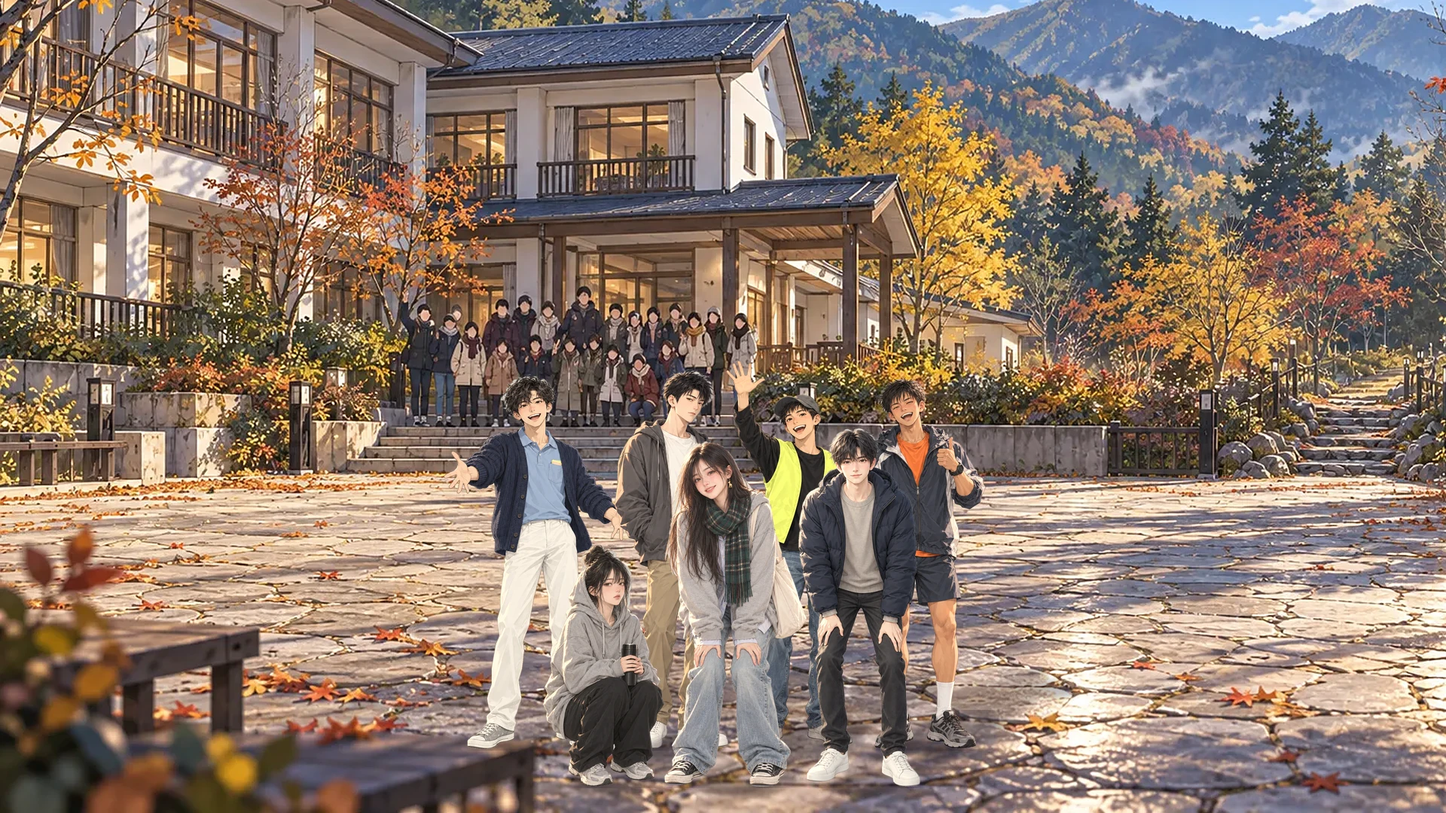
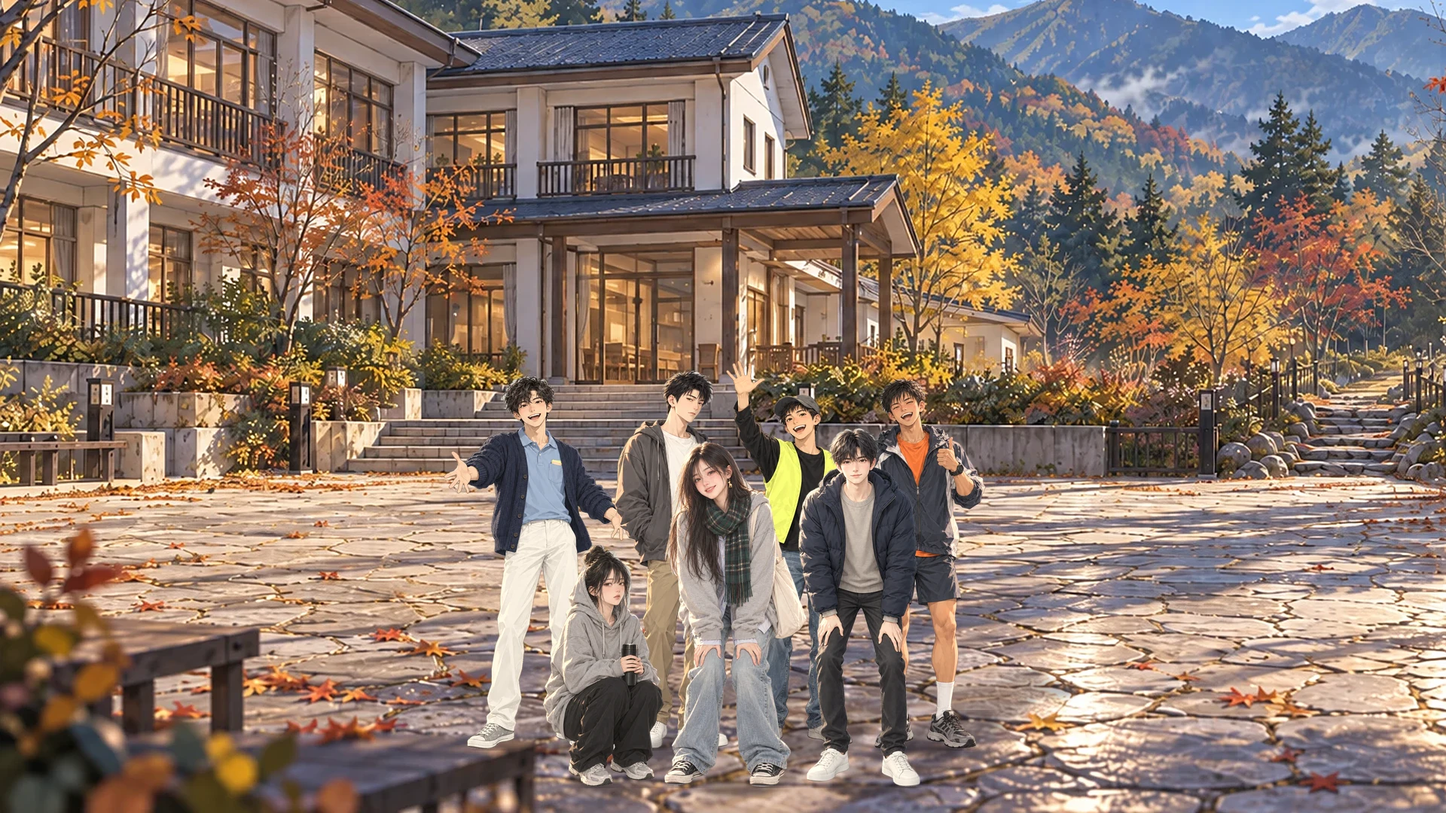
cg_econ_camp 第二版：E4c 改圖拿掉台階上的學生，七個人自己拍（READY_FOR_REVIEW）；公館招牌 S10 早午餐、豆花・甜湯通過；S11 給使用者
Claude-Session: https://claude.ai/code/session_01J1g2TPcPzWrihXSY2WvseV

diff --git a/docs/story_planning/CG_正式製作清單.md b/docs/story_planning/CG_正式製作清單.md
@@ -83,7 +83,7 @@
 | CG-12 | 分一點時間 | 大四上 | 戀愛路線 | 語彤事件 16 的戀愛分支（說出口的那一刻） | 齊（06） | **已生成、BB 檢查通過**（2026-10-14，`cg_approved/`） | — | 語彤事件 16；主要人物劇情 |
 | CG-14 | 中秋的河濱：火一直熄（生活 CG） | 大一上 | **共通** | 去河濱烤肉的玩家（`ev_mid_autumn_bbq`，第 5 週六；放在「你被分到顧火。火一直熄。」） | 齊（`zhe.webp`） | **已生成、BB 檢查通過**（2026-10-14 第十六組，`cg_approved/cg_midautumn_riverside.webp`） | — | **已實作**（開發分支），圖通過就能接 |
 | BCG-46 | 期末考完的合照（法律系 9 人） | 大一上 | 條件式（相簿） | 大一上期末最後一科考完，和其他八人裡至少五位 `FRIEND` 以上，相簿才存（`BB_132` 第 69 組） | 齊（06 的祐廷、以安＋七位配角的參考圖） | **BB 合成完成，READY_FOR_REVIEW**（2026-10-17 00:0x：九人一人一張＋穿堂背景，BB-B 去背、照站位和身高合成，`cg_approved/cg_class_photo_y1.webp` 1920×1080；做法和腳本在 `cg_approved/parts_cg69/`）；等使用者看過再交 LAWWW-B | — | 新畫面，不是新事件（拍完去麵店，`AA_71` 2-13）；構圖 `BB_118` 5-1 |
-| BCG-47 | 經濟系宿營的合照（7 人自己拍；使用者 00:5x 拿掉其他新生） | 經濟系大一上 | 條件式（去宿營的玩家） | E15 宿營（2024/11/22～24），字卡之後、AA 的三句旁白之前（`AA_154` A54；夜遊、寢室兩段拿掉） | 齊（祐廷 06＋可昕、阿勳、韋綸、家豪、品妤、唐睿的參考圖） | **背景重做中**（使用者 00:5x 看第一版：後面的學生像在拍自己的合照；00:5x 定：「它們自己拍就好啦」，改成七個人自己拍的合照，`BB_132` E4c 用改圖拿掉台階上的學生）。第一版：（2026-10-17 00:5x：七人一人一張＋營地門口背景，BB-B 去背、照站位和身高合成，`cg_approved/cg_econ_camp.webp` 1920×1080；做法在 `cg_approved/parts_econcamp/`）；等使用者看過再交 LAWWW-B（換掉 `econ_camp` 的暫代） | — | `BB_132` 第 71 組；取代作廢的 `cg_law_camp_squad` |
+| BCG-47 | 經濟系宿營的合照（7 人自己拍；使用者 00:5x 拿掉其他新生） | 經濟系大一上 | 條件式（去宿營的玩家） | E15 宿營（2024/11/22～24），字卡之後、AA 的三句旁白之前（`AA_154` A54；夜遊、寢室兩段拿掉） | 齊（祐廷 06＋可昕、阿勳、韋綸、家豪、品妤、唐睿的參考圖） | **BB 合成第二版完成，READY_FOR_REVIEW**（2026-10-17 01:0x：使用者 00:5x 看第一版，後面的學生像在拍自己的合照，定「它們自己拍就好啦」；`BB_132` E4c 用改圖拿掉台階上的學生，七個人重新合成）。第一版（作廢）：（2026-10-17 00:5x：七人一人一張＋營地門口背景，BB-B 去背、照站位和身高合成，`cg_approved/cg_econ_camp.webp` 1920×1080；做法在 `cg_approved/parts_econcamp/`）；等使用者看過再交 LAWWW-B（換掉 `econ_camp` 的暫代） | — | `BB_132` 第 71 組；取代作廢的 `cg_law_camp_squad` |
 | CG-15 | 頂樓的跨年（生活 CG） | 大一上（大二上的頂樓版共用） | **共通** | 去宿舍頂樓的玩家（`ev_nye_roof`；放在第一句旁白；和可昕在河堤跨年的版本不放） | 齊（`zhe.webp`） | **已生成、BB 檢查通過**（2026-10-14 第十六組，`cg_approved/cg_nye_rooftop.webp`；遠方一塊招牌 BB 柔化） | — | **已實作**（開發分支），圖通過就能接 |
 | CG-16 | 起立：刑訴的法院旁聽（生活 CG） | 大三上 | **共通** | 所有玩家（第 7 週；放在旁白「審判長進來。你跟著大家站起來。」，`BB_102` 大三上） | 齊（`prof_lin.webp`；同學都是背影） | **已生成、BB 檢查通過**（2026-10-14 第十八組，`cg_approved/cg_court_gallery_rise.webp`；書記官的鑲邊 BB 改成黑色） | — | 交接包 v4 第 7 週 |
 | CG-17 | 請協力：町公所的通知（以安；日本路線） | 大三下 | 條件式 | 日本路線的玩家（場景 J2，第 12 週；放在「這比命令可怕，還是比較好？」；其他路線照舊看手機照片） | 齊（06；五月初的衣服用文字，不戴耳環） | **已生成、BB 檢查通過**（2026-10-14 第十七組，`cg_approved/cg_japan_notice_heroine01.webp`；路牌 BB 柔化） | — | `AA_30` 3-2 J2（交接包 v4） |

diff --git a/docs/story_planning/cg_approved/parts_econcamp/README.md b/docs/story_planning/cg_approved/parts_econcamp/README.md
@@ -11,9 +11,18 @@
 | `econcamp_jiahao.webp` | 家豪學長 | E3 | 通過（2026-10-17 00:3x） | 和參考圖同一個人（深灰棒球帽、黑短髮、開朗）；黑長袖 T＋螢光黃小隊輔背心（沒有字）、牛仔褲、白球鞋；拿線圈筆記本、高舉揮手、大笑；887×1774 |
 | `econcamp_pinyu.webp` | 品妤 | E3 | 通過（2026-10-17 00:3x） | 和參考圖同一個人（亂丸子頭、碎髮、淡淡的表情）；大一號灰連帽 T、黑寬褲、灰白運動鞋；半蹲捧黑色保溫杯；887×1774。帽子沒有戴一半（垂在後面），不影響 |
 | `econcamp_tangrui.webp` | 唐睿 | E4 | 通過（2026-10-17 00:5x） | 和參考圖同一個人（蓬鬆捲髮、表情多）；藍 polo（胸前口袋露出彩色便利貼）＋深藍粗針織開襟衫、白長褲、灰帆布鞋；兩手往兩邊張開、張大嘴笑；887×1774 |
-| `econcamp_bg.webp` | 營地門口背景 | E4 | 通過（2026-10-17 00:5x） | 和 `bg_approved/econ_camp.webp` 同一個營地（兩層白牆木欄杆活動中心、石板空地、右邊石階步道、後面的山），十一月早上、晴、落葉；門口台階上方約二十個學生在拍大合照，臉小、看不清楚；前面石板地空著；沒有字、布條；1672×941。學生群在畫面偏左（不在正中間），合成時裁切往左移 |
+| `econcamp_bg_v1_crowd.webp`（第一版，**不用**） | 營地門口背景 | E4 | 通過（2026-10-17 00:5x） | 和 `bg_approved/econ_camp.webp` 同一個營地（兩層白牆木欄杆活動中心、石板空地、右邊石階步道、後面的山），十一月早上、晴、落葉；門口台階上方約二十個學生在拍大合照，臉小、看不清楚；前面石板地空著；沒有字、布條；1672×941。學生群在畫面偏左（不在正中間），合成時裁切往左移 |
 
-## 合成（2026-10-17 00:5x，BB-B）
+| `econcamp_bg.webp` | 營地門口背景（改圖：拿掉台階上的學生） | E4c | 通過（2026-10-17 01:0x） | 使用者 00:5x：「它們自己拍就好啦」。用改圖把第一版台階上的學生拿掉，台階、門口、玻璃門補得看不出來；整張圖其實被重畫過一次（和第一版逐像素差不少），但構圖、建築、光線都一樣；1672×941 |
+
+## 合成第二版（2026-10-17 01:0x，BB-B，**用這一版**）
+
+- 七個人自己拍的合照，後面沒有其他學生（使用者 00:5x）。背景換成 `econcamp_bg.webp`（改圖版），七個人的位置、大小、影子和第一版一樣（`compose_econ.py`，放大 1.1、後排每公尺 280 px）。
+- 成品：`../cg_econ_camp.webp`，**READY_FOR_REVIEW**。
+
+## 合成第一版（2026-10-17 00:5x，BB-B，作廢）
+
+- 使用者 00:5x：「為什麼他們後面一堆人合照他們自己拍自己的」：第一版背景的學生站在遠遠的台階上，和七個人像兩張照片。下面是第一版的做法，第二版照用。
 
 - 成品：`../cg_econ_camp.webp`（1920×1080），**READY_FOR_REVIEW**，等使用者看。
 - 做法：

diff --git a/docs/story_planning/signs_approved/README.md b/docs/story_planning/signs_approved/README.md
@@ -47,4 +47,7 @@
 | `gg_changpian_h.webp`、`gg_changpian_h_fit.webp` | 二手唱片（`BB_176` 1-12，`SIGN_FACE_G12`） | 「二手唱片」（只有店名） | 原檔帶子約 6.8:1 → `_fit` 2955×291（10.16:1） | 2026-10-17 01:0x 通過。字對（唱＝口＋昌、片放大看過）；黑底、暖白霓虹燈管字（燈管和固定夾看得出來）、黑膠唱片霓虹圖示；兩邊多了紅色霓虹波浪線和小星星（沒有要求，不影響）。**晚上只有字和霓虹線條亮**：請 LAWWW2-B 做遮罩。`_fit` 兩端補純黑 |
 | `gg_wenju_h.webp`、`gg_wenju_h_fit.webp` | 文具・畫材（`BB_176` 1-13，`SIGN_FACE_G13`） | 「文具・畫材」（只有店名） | 原檔帶子約 6.0:1 → `_fit` 3352×330（10.16:1） | 2026-10-17 01:0x 通過。字對（畫＝聿＋田＋一、材＝木＋才放大看過）；米白底、黑色粗圓體、下面紅黃藍綠四條色票、鉛筆和水彩筆交叉；明亮乾淨，和隔壁咖啡・輕食的深酒紅分得開。`_fit` 兩端補米白底色 |
 
+| `gg_brunch_h.webp`、`gg_brunch_h_fit.webp` | 早午餐（`BB_176` 1-14，`SIGN_FACE_G14`） | 「早午餐」（只有店名） | 原檔帶子約 6.2:1 → `_fit` 3260×321（10.16:1） | 2026-10-17 01:0x 通過。字對（餐＝𣦼＋食放大看過）；奶油白底、番茄紅胖圓體（有一點亮面）、烤吐司圖示和幾條黃色的光；沒有煎蛋，和溫州街的「半熟」分得開。`_fit` 兩端補奶油白 |
+| `gg_douhua_h.webp`、`gg_douhua_h_fit.webp` | 豆花・甜湯（`BB_176` 1-15，`SIGN_FACE_G15`） | 「豆花・甜湯」「粉圓・芋圓・紅豆」 | 原檔帶子約 5.5:1 → `_fit` 3687×363（10.16:1） | 2026-10-17 01:0x 通過。字對（湯＝氵＋昜、圓、芋、紅放大看過）；米白紙底、上下深咖啡邊線、深咖啡毛筆字、青花瓷碗裡豆花＋粉圓＋芋圓＋紅豆，兩端是淡淡的花枝；古早、溫柔。`_fit` 兩端補米白底和上下邊線（每一列取乾淨的米白、加一點紙的雜訊）；原圖兩端的花枝留在原位 |
+
 - **公館的自助洗衣（`BB_176` 1-9）不用生成**（2026-10-17 00:4x，使用者問「有的招牌不是提交過了嗎?」查到）：字（「自助洗衣」）和設計（藍底、白圓體、洗衣機圖示）跟溫州街已通過的 `laundry.webp` 幾乎一樣，照公館「日日便利」的做法直接沿用溫州街那張（同一家連鎖）。LAWWW2-B 把 `SIGN_FACE_G09` 貼 `laundry.webp` 就好。

diff --git a/docs/story_planning/待使用者生成圖片清單.md b/docs/story_planning/待使用者生成圖片清單.md
@@ -52,10 +52,10 @@
 | S8 | 咖啡・輕食、水果行 | `BB_176` 1-7、1-8 | **通過**（00:4x；`signs_approved/gg_kafei_*`、`gg_shuiguo_*`） |
 | E4 | 唐睿、營地門口背景（後面有其他學生） | `BB_132` E4 | **通過**（00:5x，`cg_approved/parts_econcamp/`）；七個人合成完成 `cg_approved/cg_econ_camp.webp`，READY_FOR_REVIEW |
 | ~~E4b~~ | ~~營地門口背景第二版（學生站在石階上當後排）~~ | — | **作廢**（使用者 00:5x：「它們自己拍就好啦」） |
-| E4c | 營地門口背景：用改圖拿掉台階上的學生 | `BB_132` E4c | 已給使用者（00:5x）。七個人自己拍的合照，後面不要其他學生 |
+| E4c | 營地門口背景：用改圖拿掉台階上的學生 | `BB_132` E4c | **通過**（01:0x）；七個人重新合成 `cg_approved/cg_econ_camp.webp`（第二版），READY_FOR_REVIEW |
 | S9 | 二手唱片、文具・畫材 | `BB_176` 1-12、1-13 | **通過**（01:0x，`signs_approved/gg_changpian_h`、`gg_wenju_h`＋`_fit`）。**自助洗衣不用生成**：和溫州街 `laundry.webp` 同字同設計，直接沿用（使用者 00:4x 問到） |
-| S10 | 早午餐、豆花・甜湯 | `BB_176` 1-14、1-15 | 已給使用者（01:0x，和 E4c 一起） |
-| S11 | 文理補習班（二樓）、小火鍋 | `BB_176` 2-1、2-2 | 等 |
+| S10 | 早午餐、豆花・甜湯 | `BB_176` 1-14、1-15 | **通過**（01:0x，`signs_approved/gg_brunch_h`、`gg_douhua_h`＋`_fit`）。一樓橫招牌 14 張全部完成（G03 原本就有、G09 沿用溫州街） |
+| S11 | 文理補習班（二樓）、小火鍋 | `BB_176` 2-1、2-2 | 已給使用者（01:0x） |
 | S12 | 桌遊・撞球（二樓）、牙醫診所 | `BB_176` 2-3、2-4 | 等 |
 | S13 | 英語會話（二樓）、學生套房出租（屋頂） | `BB_176` 2-5、2-6 | 等 |
 | S14 | 美髮（直）、中醫診所（直） | `BB_176` 3-2、3-5 | 等 |
